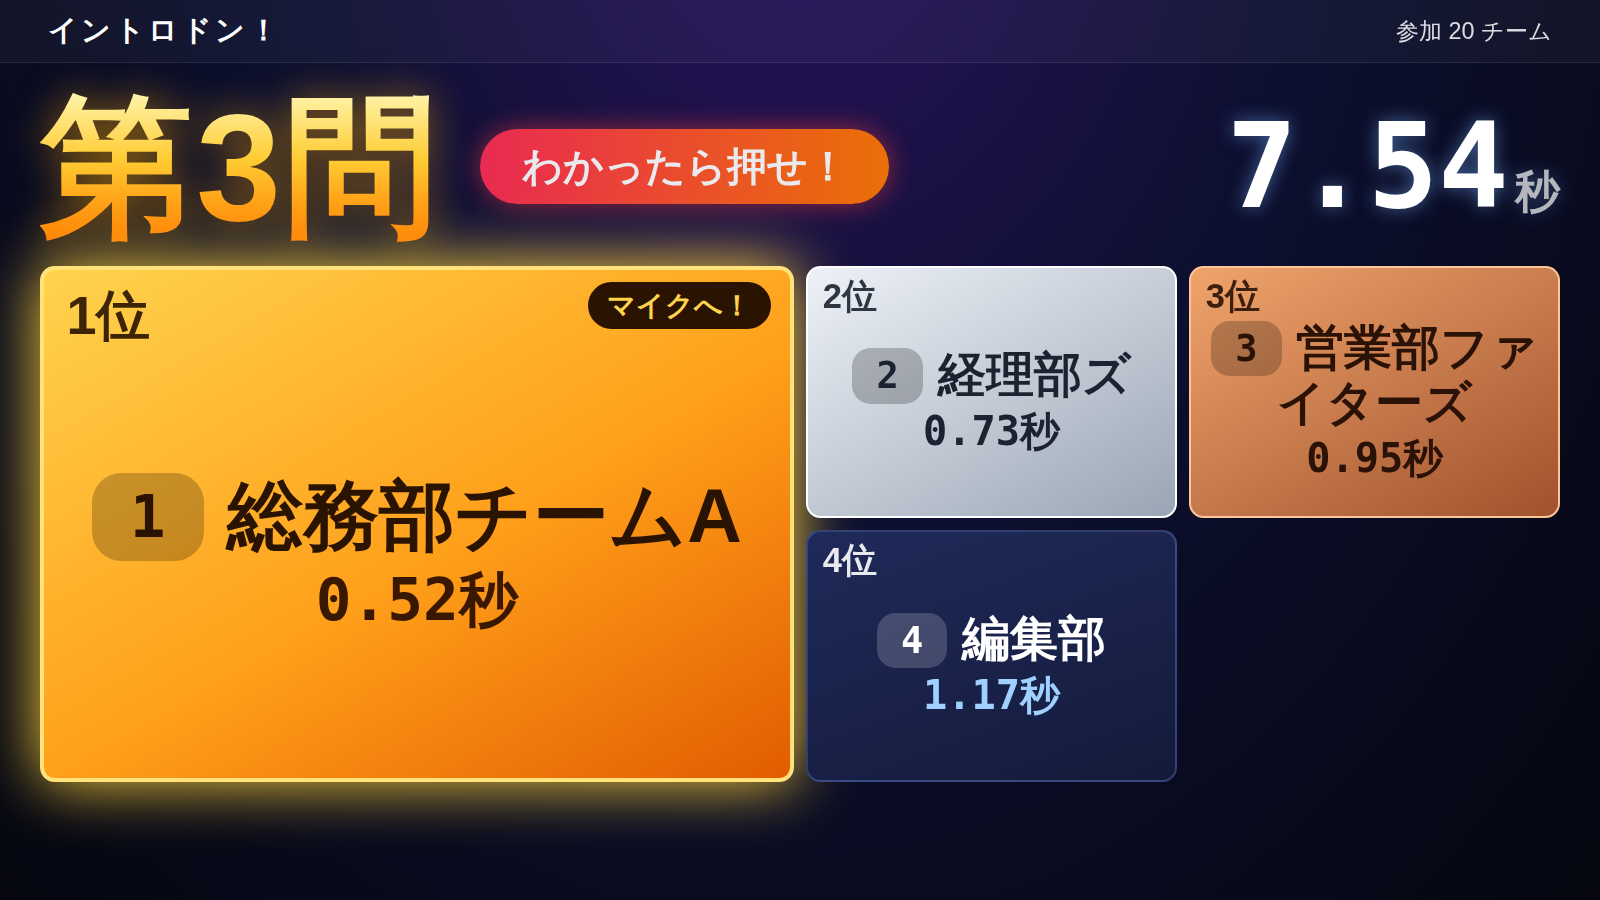
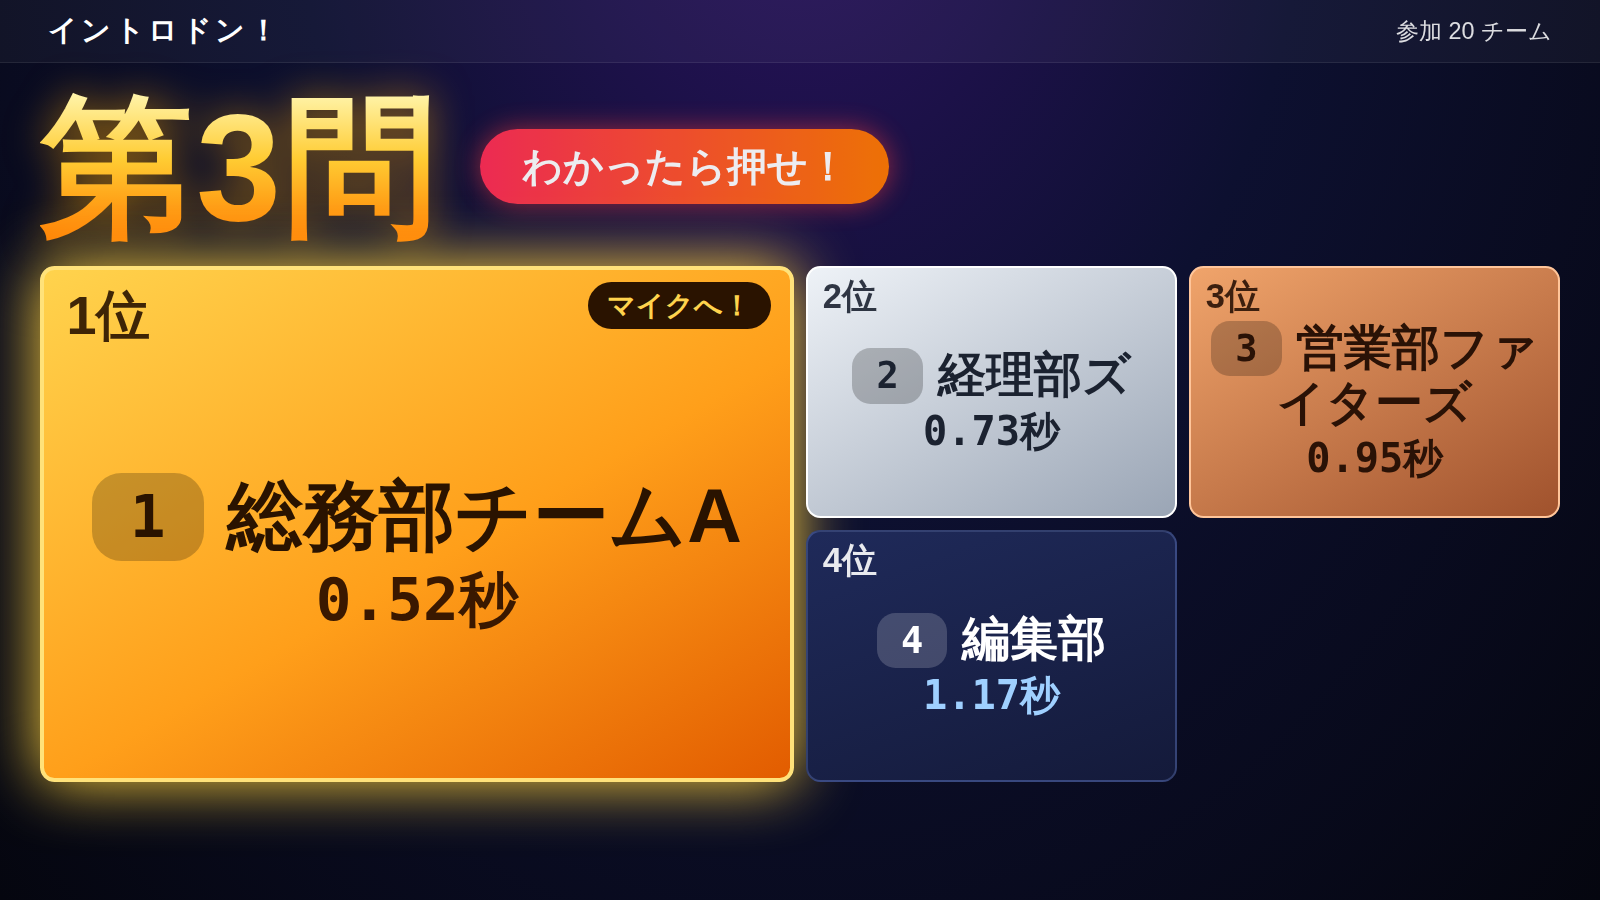
Add files via upload

Changed region(s): [[0.75, 0.1244, 1.0, 0.2489]]

diff --git a/index.html b/index.html
@@ -56,7 +56,7 @@
 
     <section id="viewEntry" hidden>
       <h2 id="entryTitle">チーム名を入力してください</h2>
-      <p id="entryNote">スクリーンにこの名前で表示されます</p>
+      <p id="entryNote">スクリーンにこの名前で表示されます<br><b>登録後は変更できません</b>のでご注意ください</p>
       <input id="nameIn" type="text" maxlength="20" placeholder="例）総務部チーム" autocomplete="off">
       <button id="joinBtn">登録する</button>
       <p id="entryMsg"></p>
@@ -67,7 +67,6 @@
       <div id="roundLabel"></div>
       <button id="buzz" disabled>待機中</button>
       <div id="msg"></div>
-      <button id="editName" class="link">チーム名を変更する</button>
     </section>
   </main>
 
@@ -254,6 +253,7 @@ function baseUrl() {
     if (!name) { $('entryMsg').textContent = 'チーム名を入力してください'; return; }
     const dup = teams.some(function (t) { return t.joined && t.id !== myTeam && t.name === name; });
     if (dup) { $('entryMsg').textContent = '同じ名前のチームがすでにあります。別の名前にしてください。'; return; }
+    if (!myTeam && !confirm('「' + name + '」で登録します。登録後は変更できません。よろしいですか？')) return;
     $('joinBtn').disabled = true; $('entryMsg').textContent = '';
     try {
       if (myTeam) {
@@ -278,7 +278,6 @@ function baseUrl() {
   }
   $('joinBtn').addEventListener('click', submitName);
   $('nameIn').addEventListener('keydown', function (e) { if (e.key === 'Enter') { e.preventDefault(); submitName(); } });
-  $('editName').addEventListener('click', function () { editing = true; $('nameIn').value = myName(); $('entryMsg').textContent = ''; render(); });
   $('cancelEdit').addEventListener('click', function () { editing = false; render(); });
 
   /* わかった！ */

diff --git a/screen.html b/screen.html
@@ -170,7 +170,6 @@
     <div id="hero">
       <div id="roundNo"></div>
       <div id="badge"></div>
-      <div id="timer">0.00<small>秒</small></div>
     </div>
     <div id="tiles"></div>
     <div id="reveal" hidden><span>正解</span><b id="revealText"></b></div>
@@ -506,7 +505,7 @@ function baseUrl() {
   window.addEventListener('resize', fitNames);
 
   function tick() {
-    if (state.status !== 'idle' && state.startAt) {
+    if (false) {
       const ms = state.status === 'open' ? serverNow() - state.startAt : (state.endAt || serverNow()) - state.startAt;
       $('timer').innerHTML = sec(ms) + '<small>秒</small>';
     }
